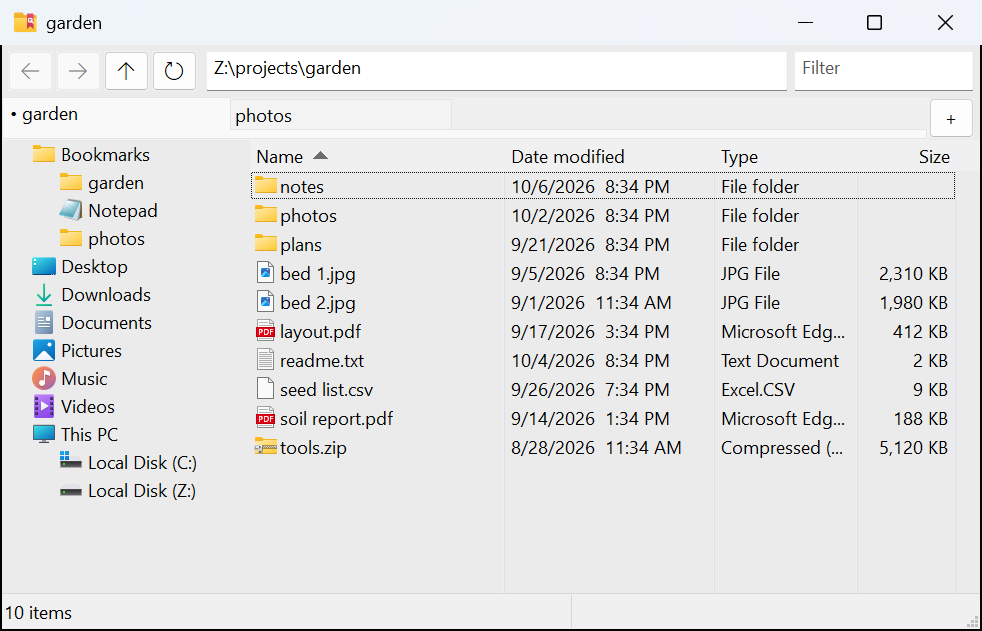
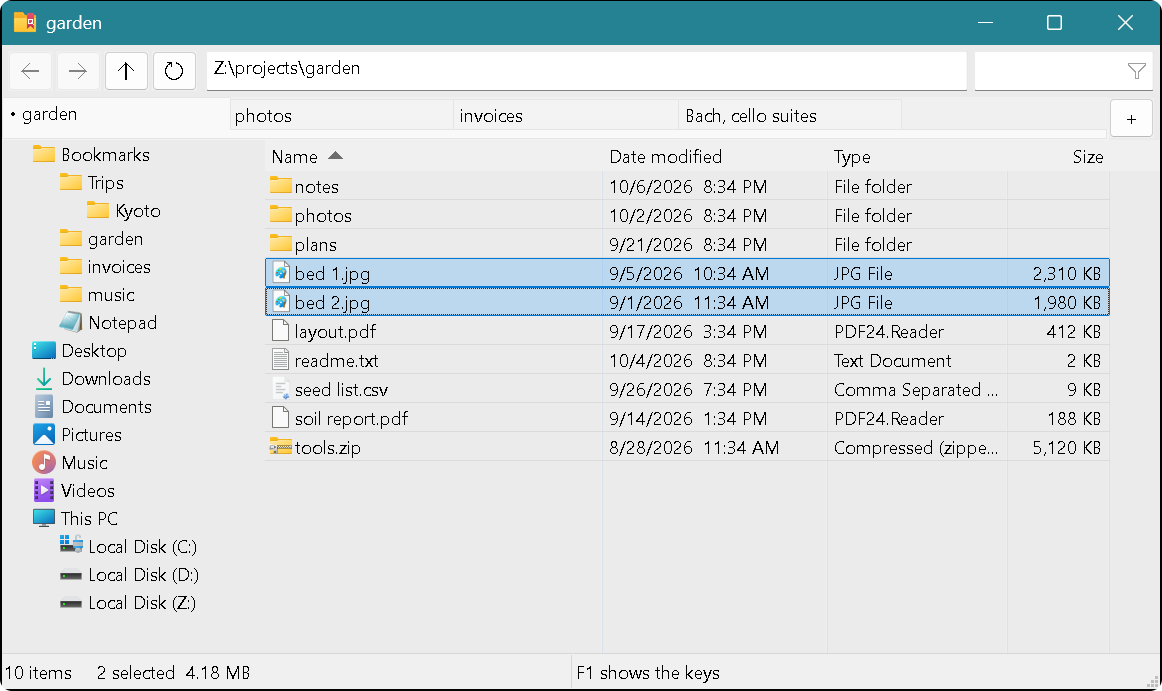
Show in the README what Qoqdir does, with pictures
A list of features says little about a mouse wheel that flips through the
tabs, or a drag that lights up where it will land. The main picture is
new, and each of those gets its own short section with a picture of a
demo folder, three of them animated.

diff --git a/README.md b/README.md
@@ -6,7 +6,9 @@ It is meant to be started from Windows Terminal. One portable exe of about 650
 KB, written in C++ and plain Win32 (there is a Rust version too): no runtime, no
 installer, and no network code (no updates, no telemetry).
 
-![The Qoqdir window: tabs, a folder tree with bookmarks, and the file list](docs/screenshot.png)
+![The Qoqdir window: tabs, a folder tree with bookmarks, and the file list with two files selected](docs/screenshot.png)
+
+[Download](#download) | [Why it exists](#why-it-exists) | [See it work](#see-it-work) | [Keys](#keys) | [Build](#build)
 
 ## Why it exists
 
@@ -24,34 +26,66 @@ reacts at once, whatever a disk or a server is doing. The idea of tabs, a folder
 tree and a fast detail list comes from CubicExplorer; Qoqdir is a new and much
 smaller program.
 
-## What it does that you may not have seen
+## See it work
+
+The pictures show a demo folder. The pointer and the drag's tip are drawn in,
+since a picture of a window doesn't show them.
+
+### The mouse wheel flips through the tabs
+
+Turn the wheel over the tab bar. A touchpad's small steps add up to one. Each
+tab comes back with its own selection, focus and scroll position.
+
+![The mouse wheel turned over the tab bar: each step shows the next tab and its folder, then back again](docs/wheel-tabs.gif)
+
+Middle-click a folder for a tab in the background, double-click the empty part
+of the bar for a new one, and drag a tab to move it.
+
+### Typing filters the list
+
+Start typing and the list narrows to the names that match, at about 10 ms a key
+in a folder of 10,000 files. Patterns work too, several at once
+(`*.png; *.mp4`). A word from an input method goes in whole. Esc shows all
+again.
+
+![Typing tom narrows 30 files to 7, Esc shows all again, and the patterns for png and mp4 files leave 3](docs/filter.gif)
+
+### Files drop where you point
+
+A folder's row lights up and takes the drop. A tab shows as the current one
+while files are over it, and takes them too. So does any folder or bookmark in
+the tree, where a closed folder opens if you hold the drag over it.
+
+![Files dragged over the folder plans, the tab photos and the bookmark invoices: each lights up, and the tip names it](docs/drop.gif)
+
+Nothing moves by accident: a plain drop that could move files asks first, with
+Windows' own menu, and files dropped back on the folder they are in do nothing,
+wherever the drag comes from.
+
+### A tab keeps its folder
+
+When a drive is pulled or a server goes off, the tab stays on that folder,
+empty, and says why. F5 tries again. Your tabs don't jump somewhere else, and
+nothing pops up.
+
+![A tab on a drive that was pulled: the list is empty, and the status bar says the folder is not available and that F5 tries again](docs/not-available.png)
+
+### Bookmarks and saved tabs are plain shortcuts
+
+Both are shortcuts in a folder next to the exe, with no database to lose. Rename
+them, group them in subfolders, copy them. Ctrl+S saves the tabs and Ctrl+O
+opens them again, and renaming the folder keeps a set. On a flash drive they
+keep working when the drive gets another letter.
+
+![After Ctrl+S, the tree shows Bookmarks, then Tabs, with the shortcuts 1 garden, 2 photos, 3 invoices and 4 Bach, cello suites](docs/saved-tabs.png)
+
+## More that you may not have seen
 
 - The window doesn't wait. Folders, tree nodes, icons and file types are read on
   other threads. Enter on a dead network path comes back in milliseconds, the
   next folder you pick takes over from the read still running, and holding F5 on
   a slow share starts one read, not a pile of them. (`docs/SPEC.md` 4.1 names
   the one narrow case where it can still wait.)
-- Tabs keep their folder. When a drive is pulled or a server goes off, the tab
-  stays on that folder, empty, says why, and F5 tries again. Each tab brings
-  back its own selection, focus and scroll position when you return to it.
-- The mouse wheel flips through the tabs: turn it over the tab bar (a touchpad's
-  small steps add up to one). Middle-click a folder for a tab in the background,
-  double-click the empty part of the bar for a new one, drag a tab to move it.
-- Typing filters. Start typing in the list and it narrows to the names that
-  match, at about 10 ms a key in a folder of 10,000 files, with patterns too,
-  several at once (`*.jpg; *.png`). A word from an input method goes in whole.
-  Esc shows all again.
-- Files drop where you point. A tab shows as the current one while files are
-  over it and takes the drop. So does a folder row in the list, which lights up,
-  and any folder or bookmark in the tree, where a closed folder opens if you
-  hold the drag over it.
-- Nothing moves by accident. A plain drop that could move files asks first, with
-  Windows' own menu. Files dropped back on the folder they are in do nothing,
-  wherever the drag comes from.
-- Bookmarks and saved tabs are plain shortcuts in a folder next to the exe, with
-  no database to lose. Rename them, group them in subfolders, copy them. Ctrl+S
-  saves the tabs, Ctrl+O opens them, and renaming the folder keeps a set. On a
-  flash drive they keep working when the drive gets another letter.
 - It lives beside the terminal. `qoqdir .` opens the folder you are in,
   `qoqdir report.pdf` opens its folder with the file selected, and Ctrl+` opens
   a terminal in the folder shown. The address bar runs commands too, and a
